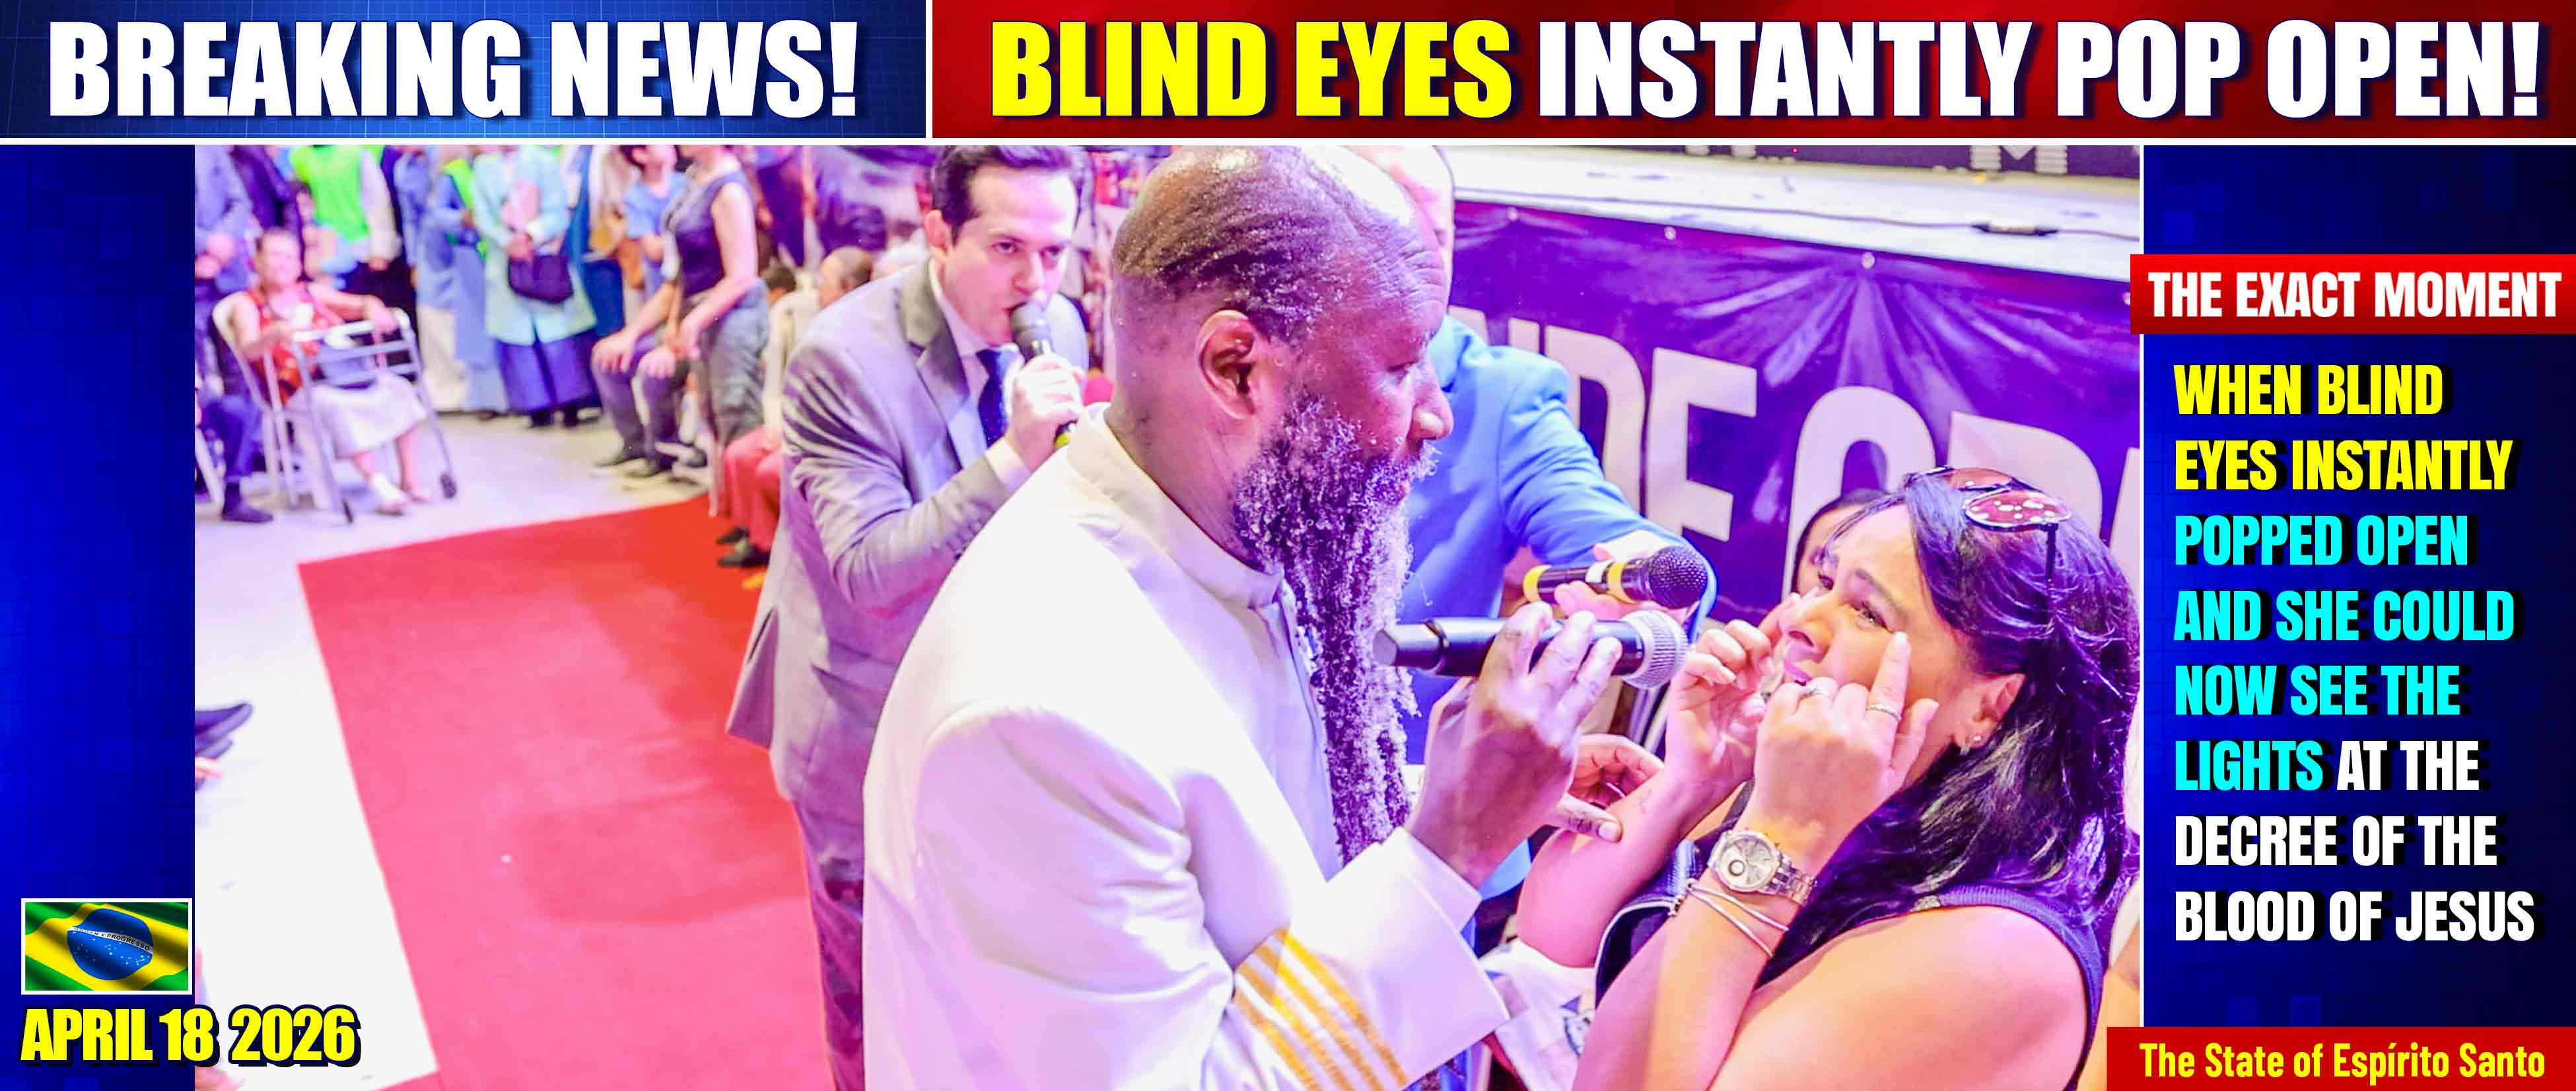
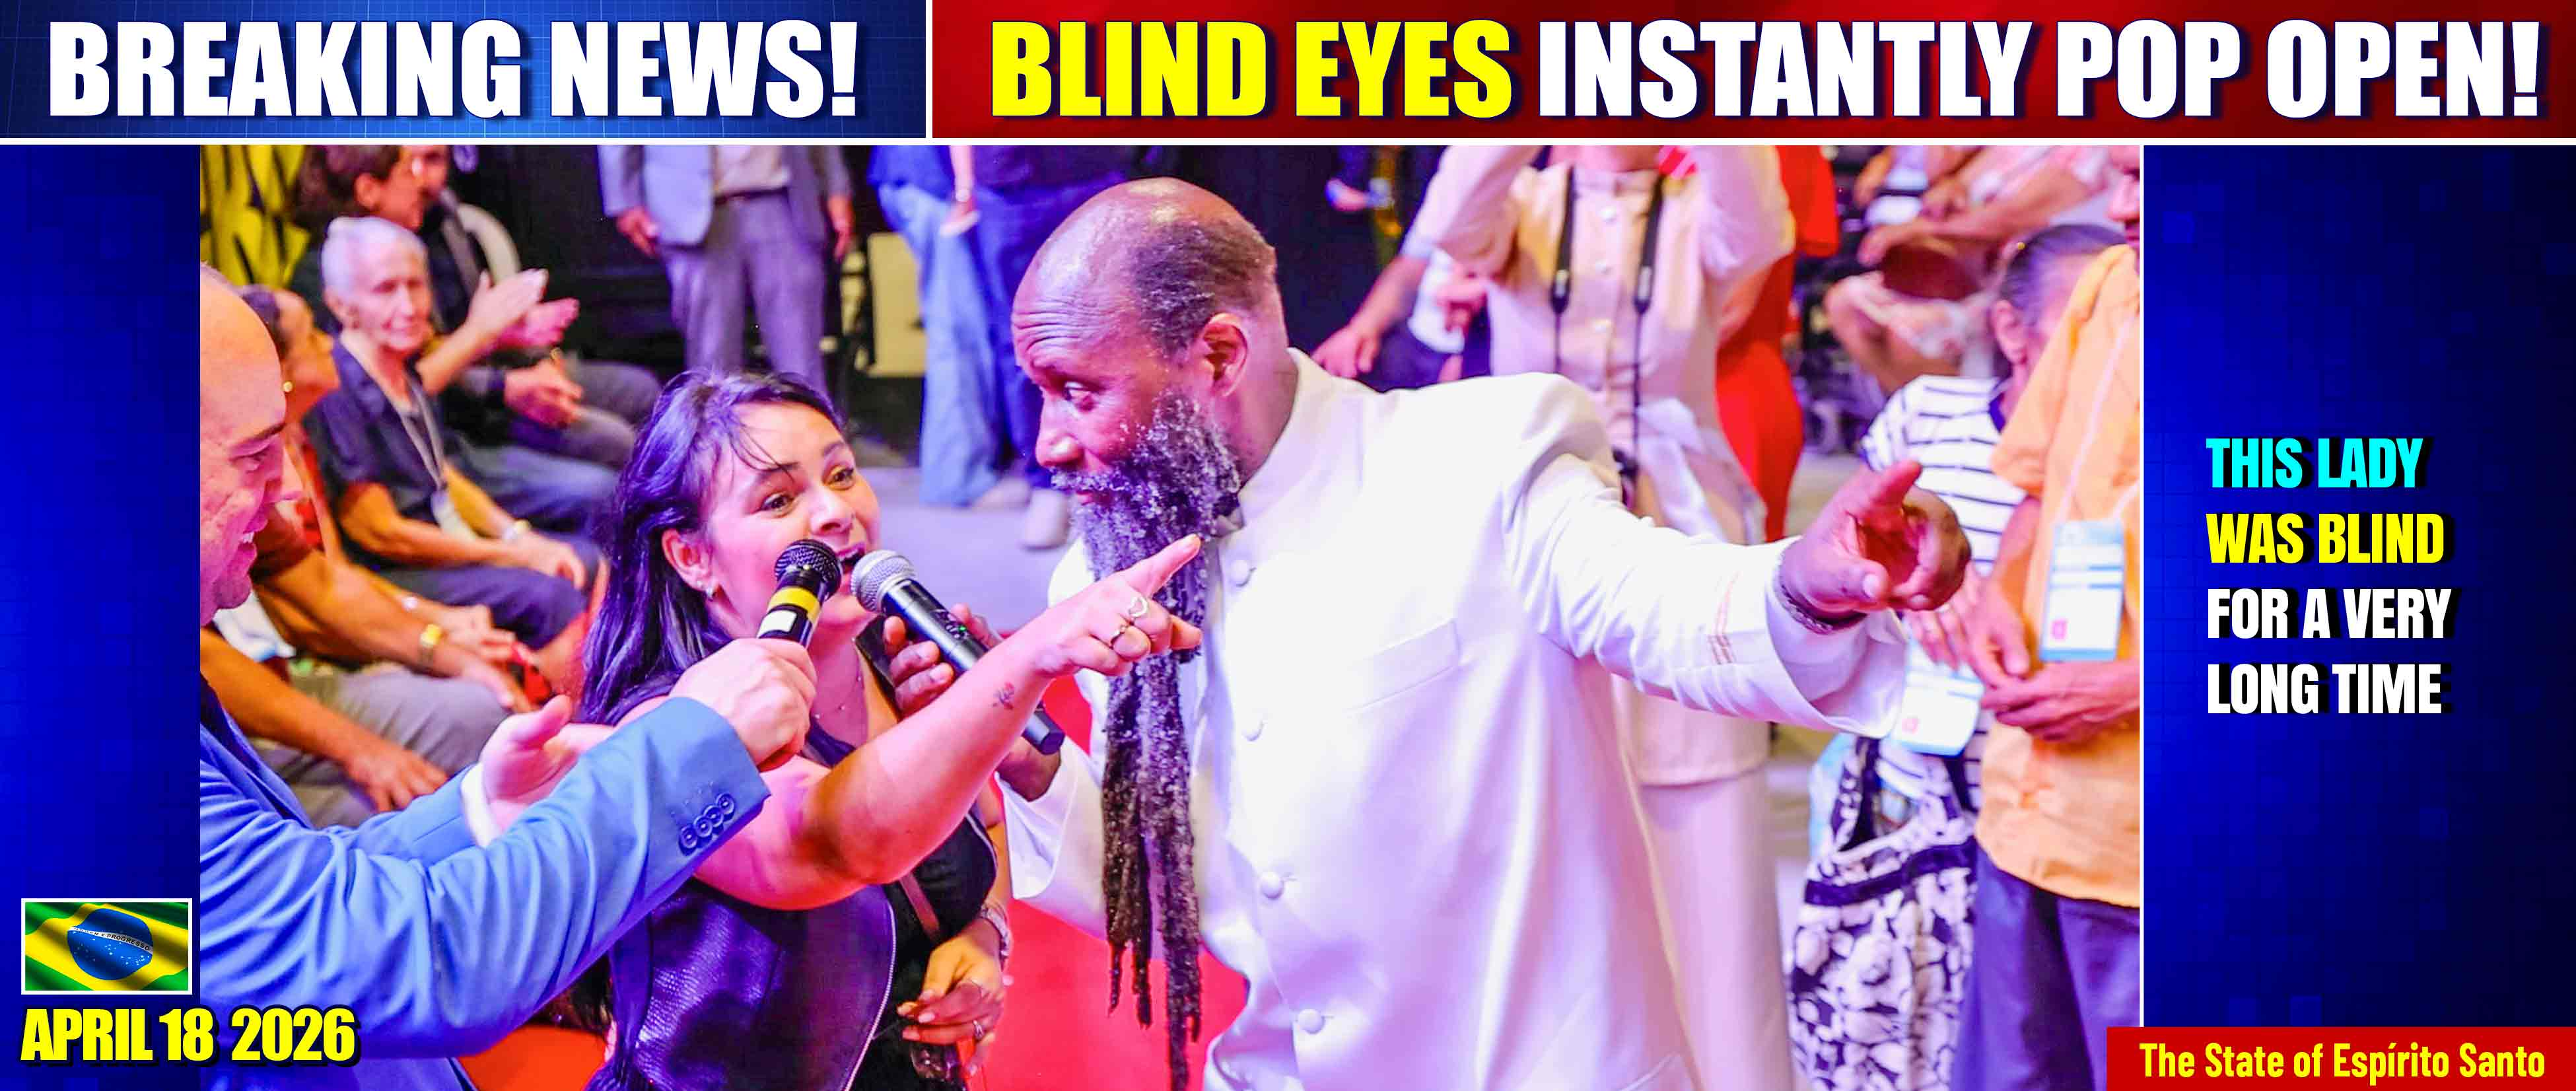
new slides

diff --git a/index.html b/index.html
@@ -24,6 +24,9 @@
 <img class="slideshow" src= "https://pub-9f92551086574e82abebdc7b9c83cf92.r2.dev/Brazil%202026/Healing%20Service/2.%20CRIPPLES/5.-CRIPPLE-2.jpg" alt="Unstable internet, please refresh the browser">
 <img class="slideshow" src= "https://pub-9f92551086574e82abebdc7b9c83cf92.r2.dev/Brazil%202026/Healing%20Service/2.%20CRIPPLES/5.-CRIPPLE-3.jpg" alt="Unstable internet, please refresh the browser">
 <img class="slideshow" src= "https://pub-9f92551086574e82abebdc7b9c83cf92.r2.dev/Brazil%202026/Healing%20Service/2.%20CRIPPLES/5.-CRIPPLE-4.jpg" alt="Unstable internet, please refresh the browser">
+<img class="slideshow" src= "https://pub-9f92551086574e82abebdc7b9c83cf92.r2.dev/Brazil%202026/Healing%20Service/2.%20CRIPPLES/5.-CRIPPLE-6.jpg" alt="Unstable internet, please refresh the browser">
+
+
 
 <img class="slideshow" src= "https://pub-9f92551086574e82abebdc7b9c83cf92.r2.dev/Brazil%202026/Healing%20Service/2.%20CRIPPLES/4.-CRIPPLE-1.jpg" alt="Unstable internet, please refresh the browser">
 